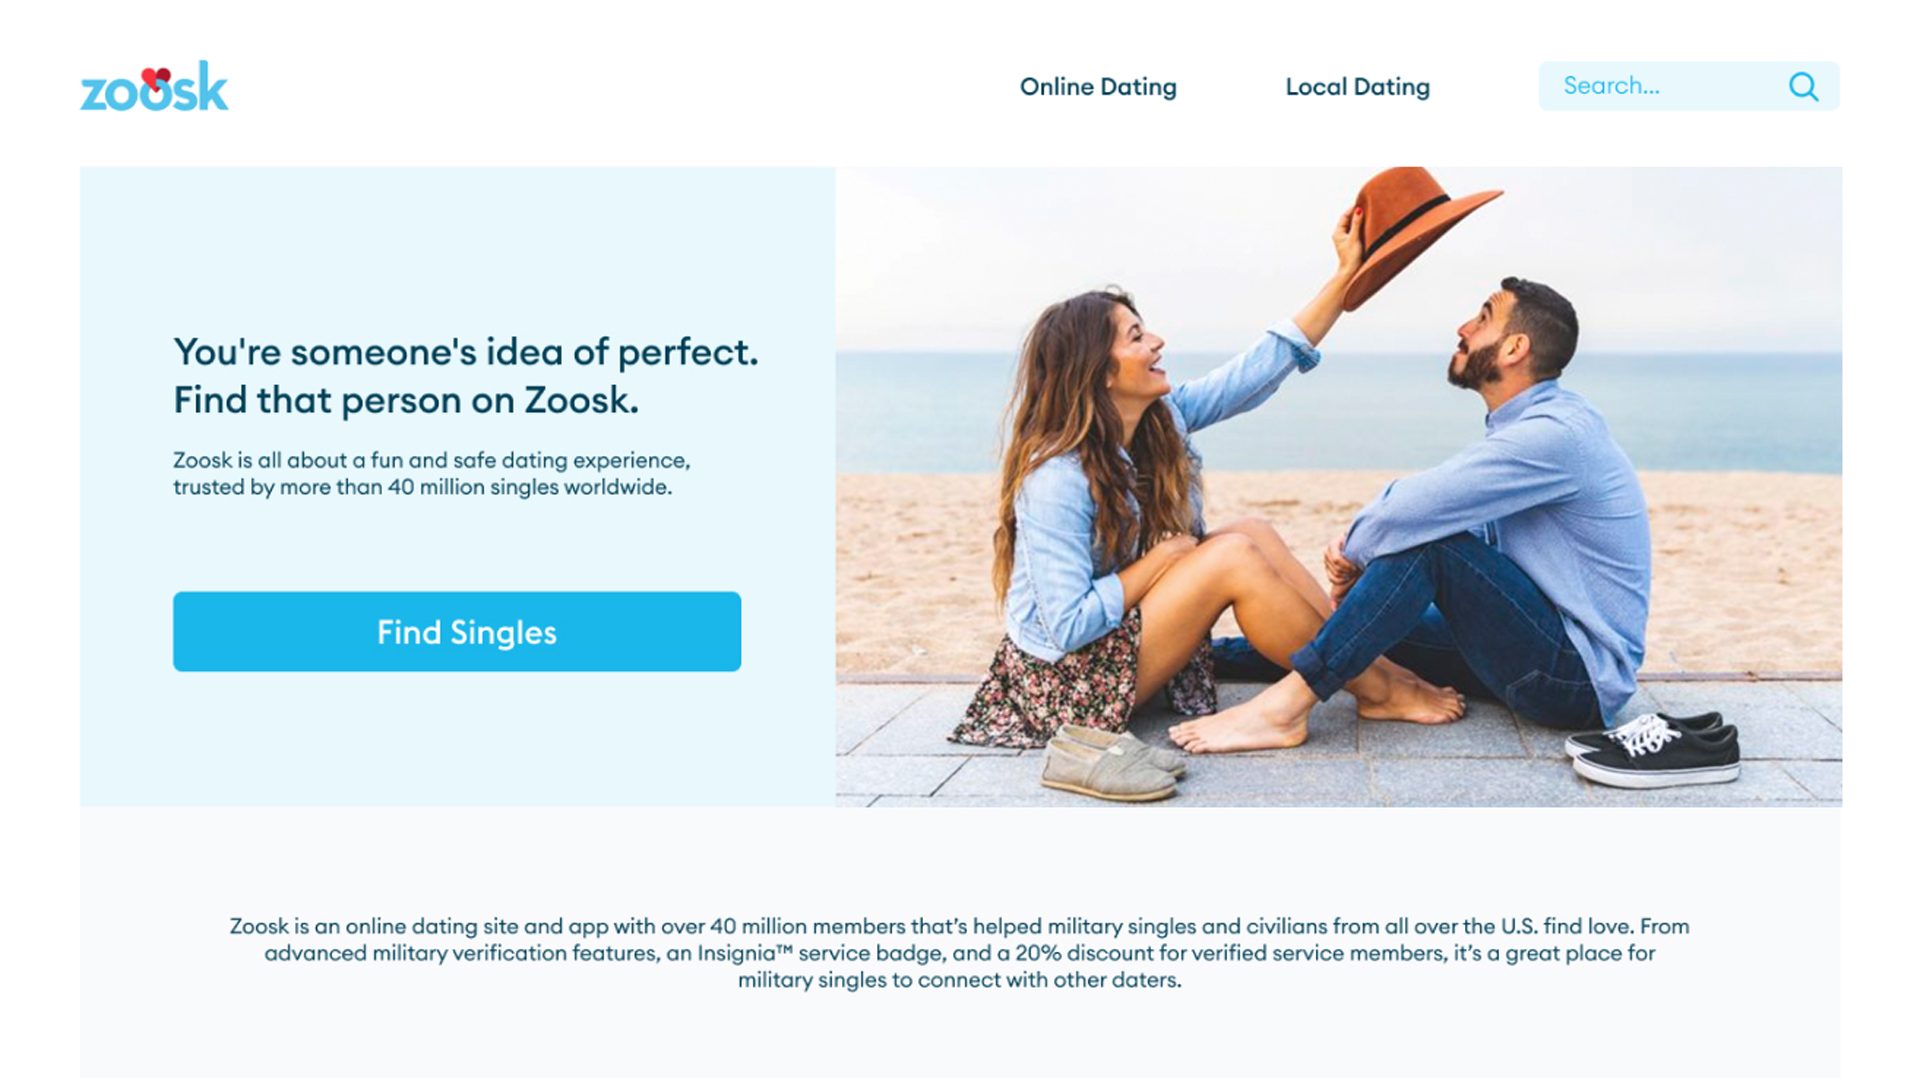
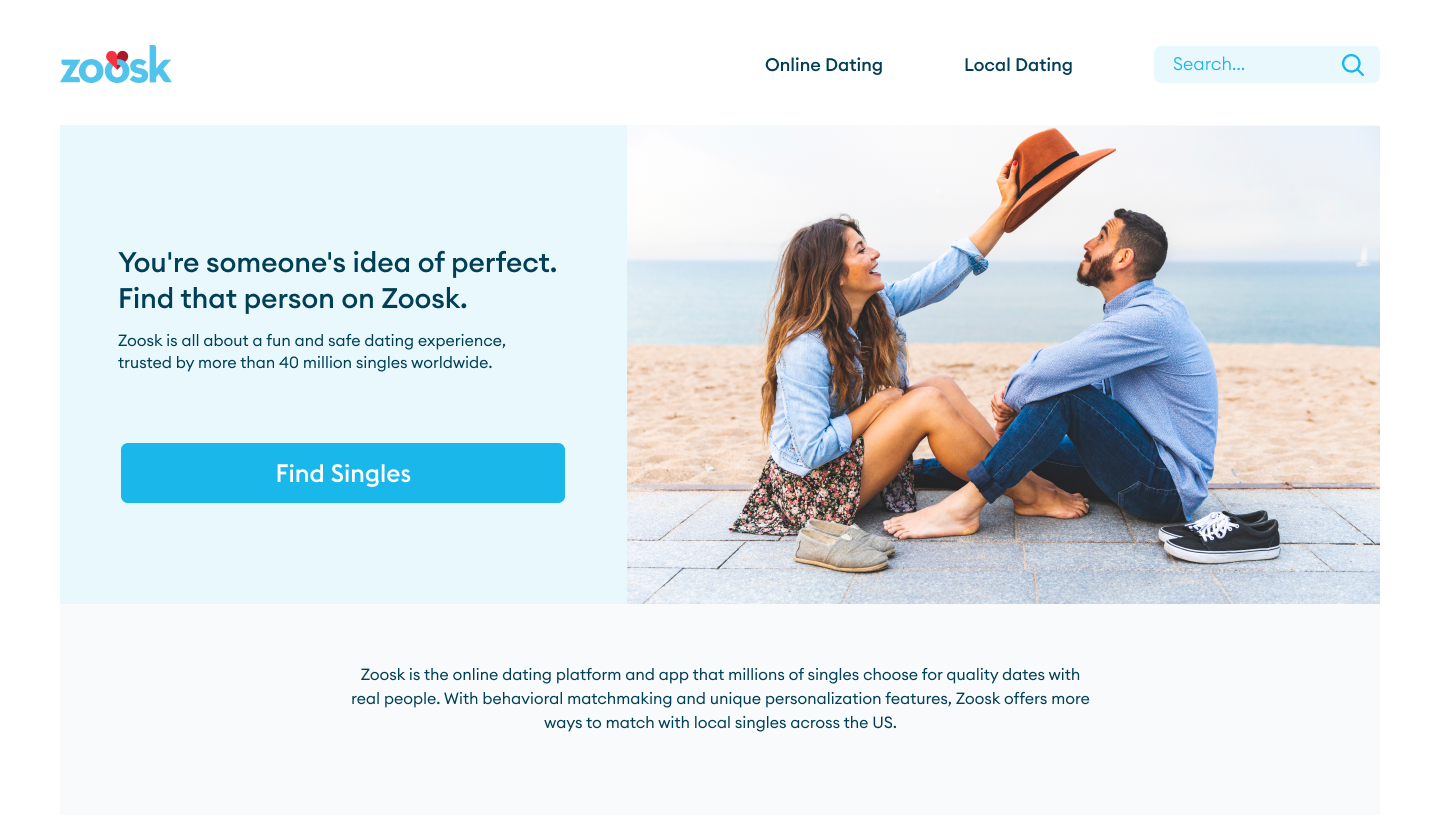
update projectos

diff --git a/project2/index.html b/project2/index.html
@@ -51,40 +51,46 @@
             Product & Landing Pages
         </div>
         <div><img src="../assets/img/project2-1.jpg" alt=""></div>
-    
+
         <section class="section1">
-            <div class="mockuptext wrapper">
-            <h2 class="headline">
+            
+            <h2 class="first-description">
                 What is Zoosk?
             </h2>
+            
+            <div class="first-description">
             <p>
                 Zoosk is an online dating site and app owned by Spark Networks Services GmbH, 
-                available in over 80 countries. With behavioral matchmaking and personalization features. 
-            </p>
+                available in over 80 countries. With behavioral matchmaking and personalization features.  </p>
             </div>
         </section>
+    
    
-        <section>
-            <div class="brand">
-                <img class="brand-img" src="../assets/img/brand2.jpg" alt="">
+        <section class="section1">
+            <div class="mockuptext">
+        
+            <div>
+                <h2 class="headline">
+                    The Goal</h2>
+                <p>
+                    The goal of this project was the design of a transactional content site for Zoosk, including landing pages with an al</p>
             </div>
-            <div class="section1 mockuptext wrapper">
-            <h2 class="headline">
-                About the project:
-            </h2>
-            <p>
-                The goal of this project was the design of a transactional content site for Zoosk, including landing pages with an aligned design. 
-            </p>
+            <div><h2 class="headline">
+                    My Role</h2>
+                <p>
+                    Visual Designer in charge of the re-design, always in contact with the frontend, product owner and content team.
+                </p>
             </div>
+        </div>
+    </section>
+    <section class="section1">
             <div>
                 <img src="../assets/img/project2-2.jpg" alt="">
             </div>
             <div>
                 <img src="../assets/img/project2-3.jpg" alt="">
             </div>
-            <div>
-                <img src="../assets/img/project2-4.jpg" alt="">
-            </div>
+          
 
                
         </section>

diff --git a/project1/index.html b/project1/index.html
@@ -99,20 +99,6 @@
             <div>
                 <img src="../assets/img/wdimob.jpg" alt="">
             </div>
-
-        </section>
-   
-        <section>
-        
-            <div class="section1 one-line-text">
-            <h2 class="headline">
-                The Quiz
-            </h2>
-            <p>
-                Later on, we added a quiz, that would help the users to pick the perfect site for them.
-            </p>
-            </div>
-            
             <div>
                 <img src="../assets/img/quiz.jpg" alt="">
             </div>
@@ -120,12 +106,9 @@
                 <img src="../assets/img/project1-2.jpg" alt="">
             </div>
 
-               
         </section>
-       
-
-
-
+   
+   
 
 
     </main>

diff --git a/projects/index.html b/projects/index.html
@@ -54,7 +54,6 @@
     <button class="btns"><a class="pname" href="/project4">ORÁCULO</a><br><a class="for" href="/project4">Study Case</a></button>
     <button class="btns"><a class="pname" href="/project1">WEEKLY DATING INSIDER</a><br><a class="for" href="/project1">Page Re-design</a></button>
     <button class="btns"><a class="pname" href="/project2">ZOOSK</a><br><a class="for" href="/project2">Product & Landing Pages</a></button>
-    <button class="btns"><a class="pname" href="/project3">SPACE TRAVEL</a><br><a class="for" href="/project3">Home Page</a></button>
     
             </div>
         </div>
